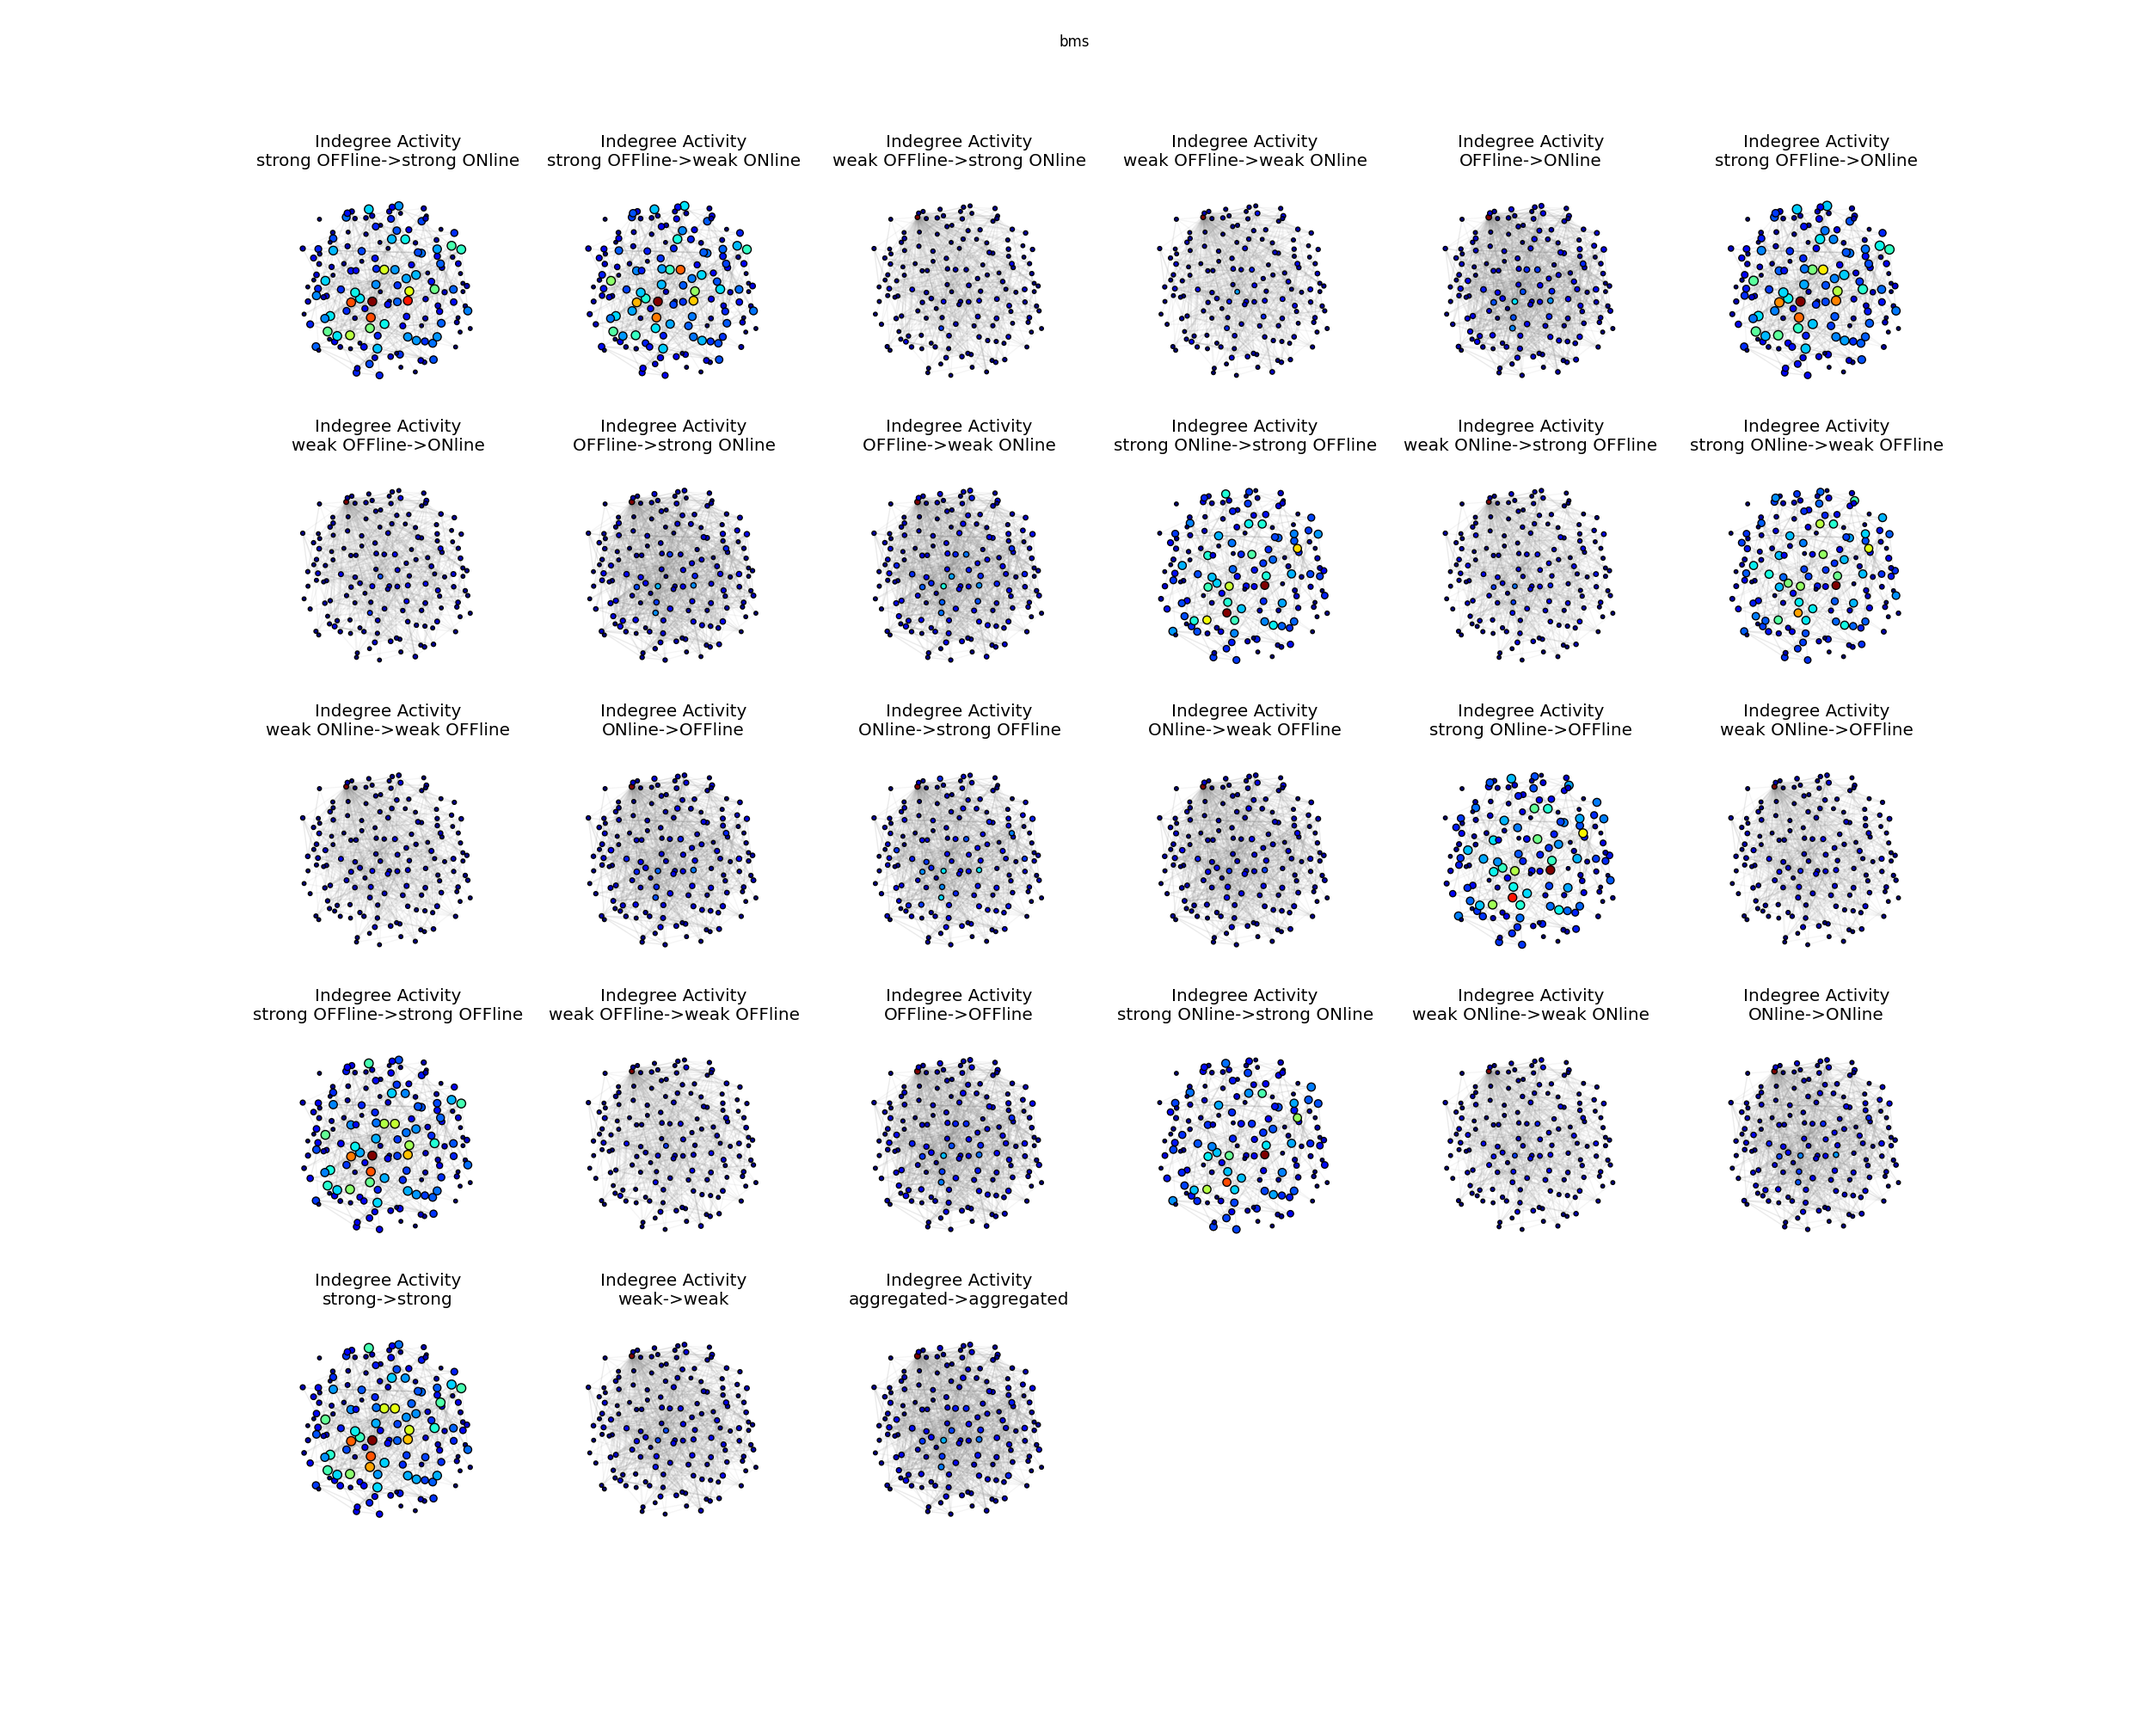
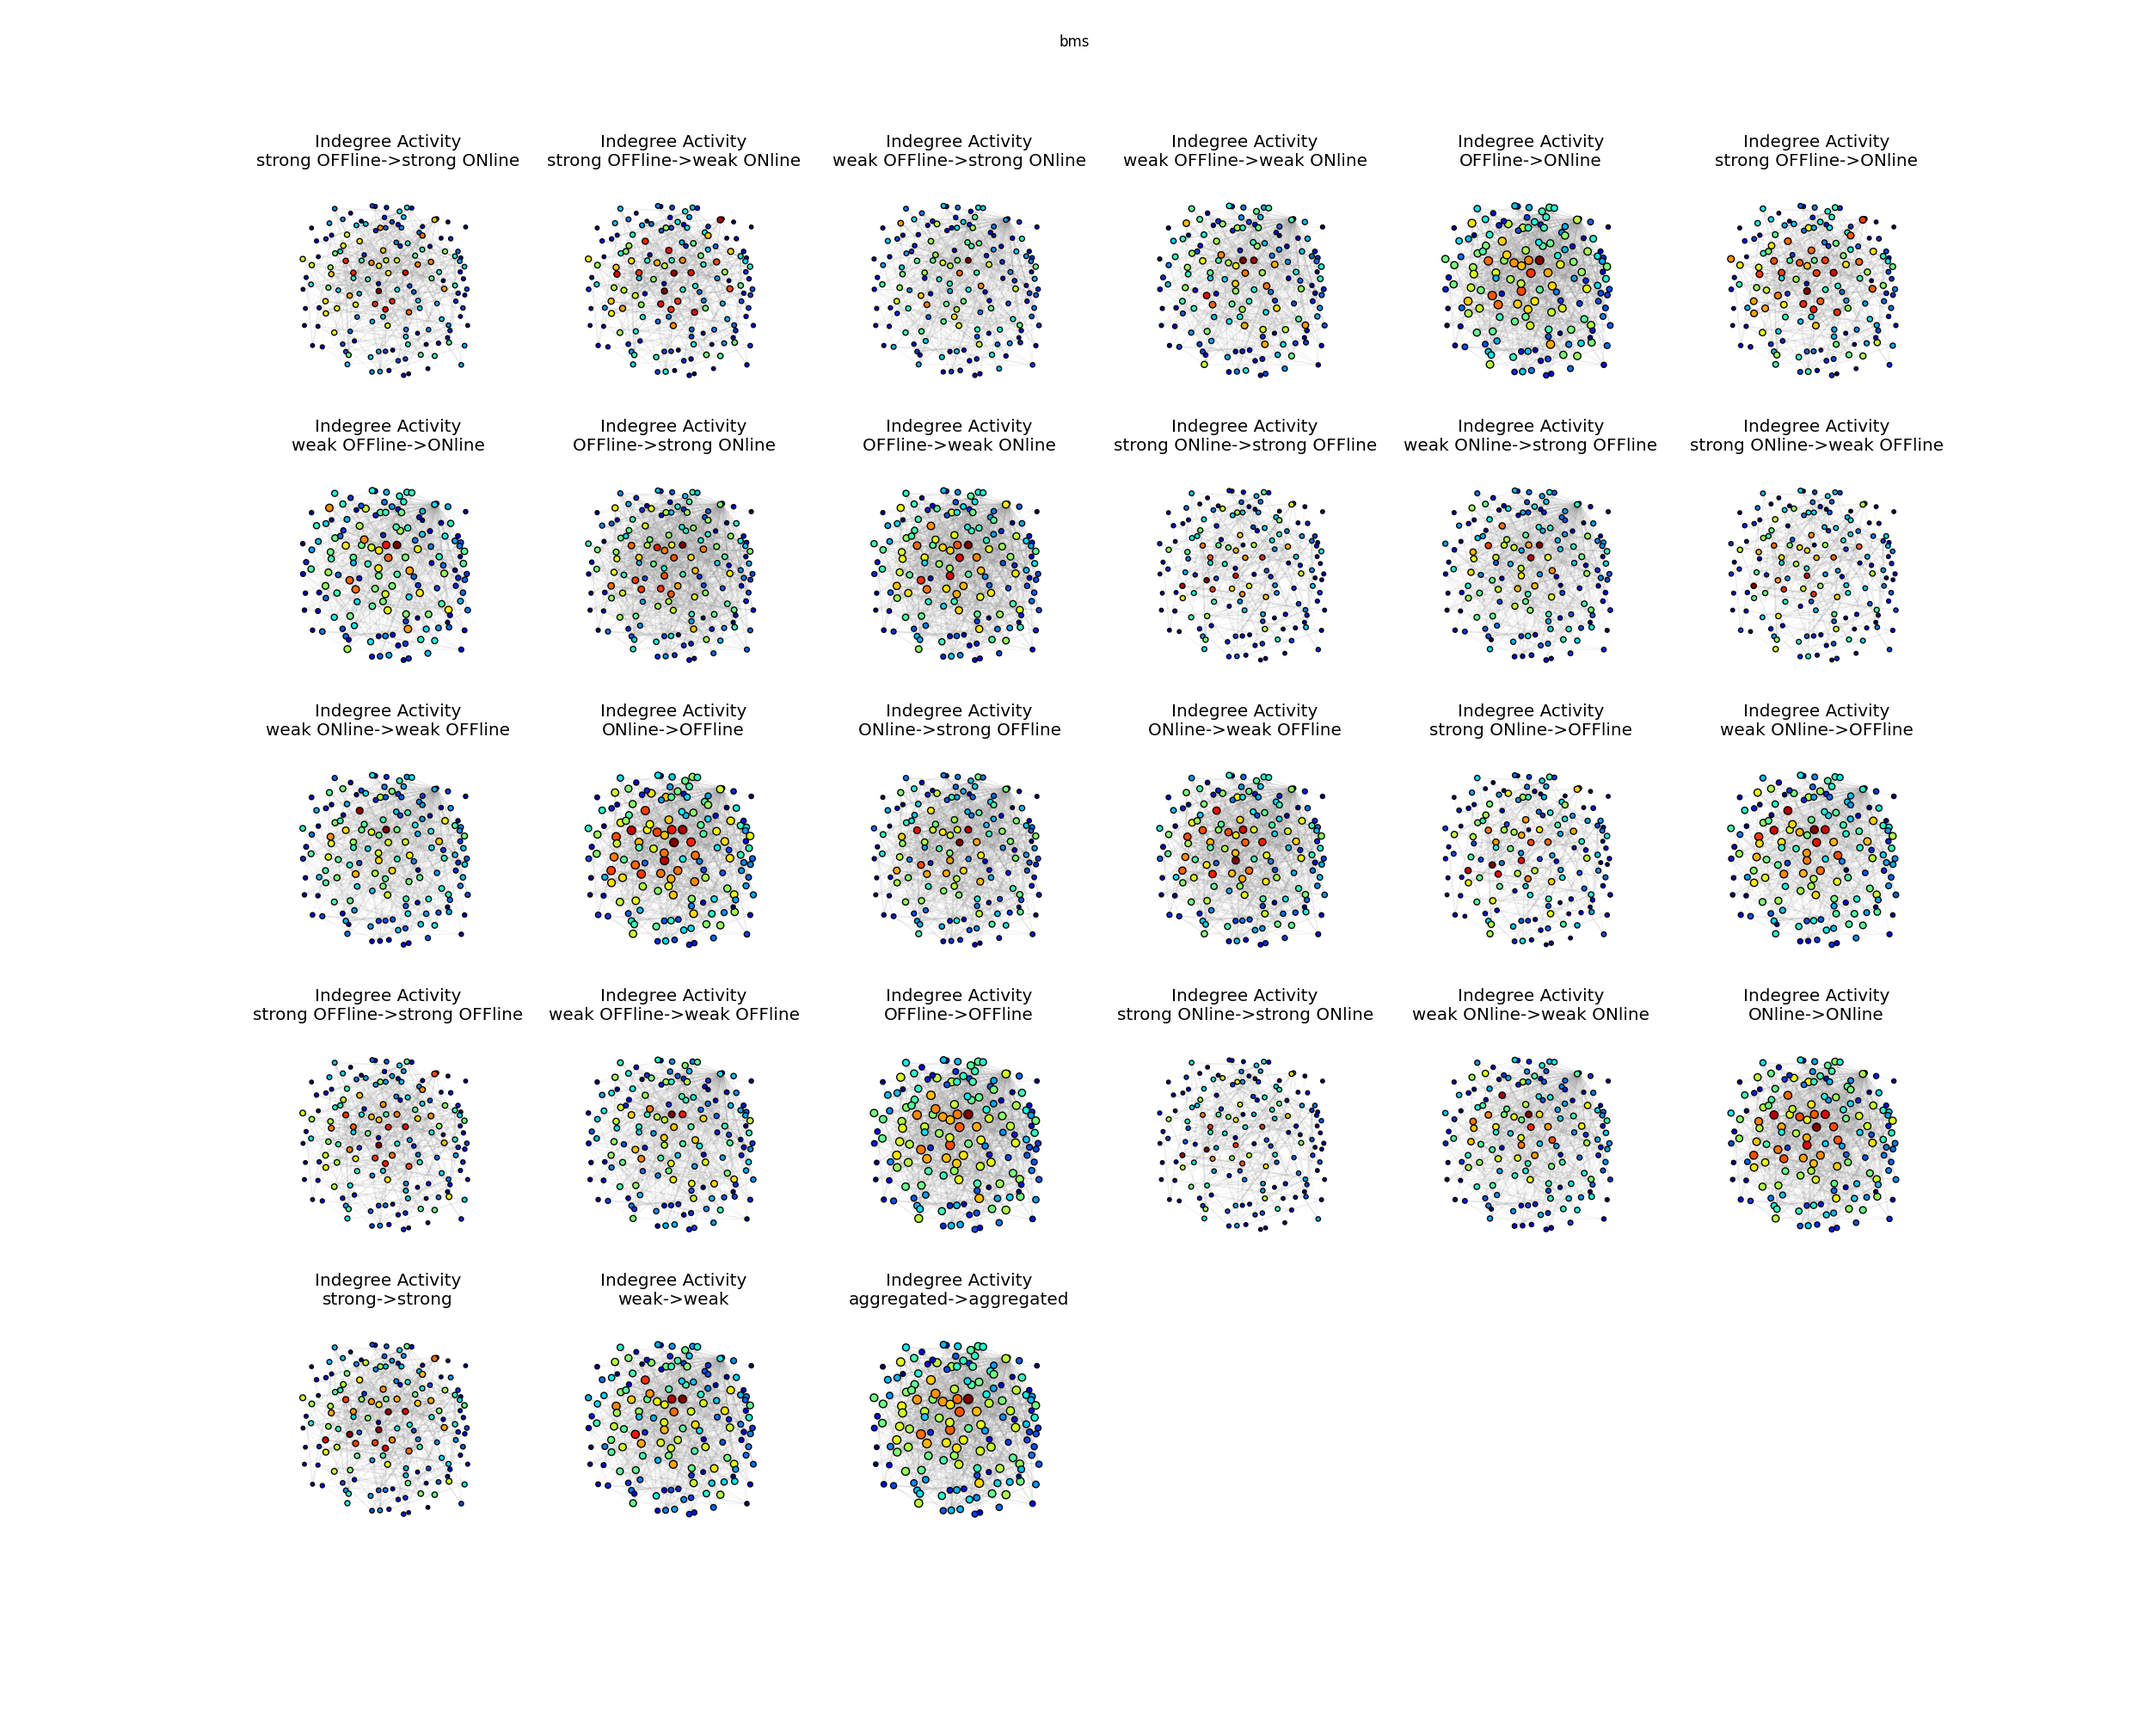
modified popularity and activity metrics

diff --git a/python code/compute_metrics_multiplex.py b/python code/compute_metrics_multiplex.py
@@ -21,6 +21,8 @@ def maxOut(g):
 def maxIn(g):
     return max([inDeg(g,i) for i in range(g.number_of_nodes())])
   
+  
+  
 """
 return {j: i f j} where f is in_edges or out_edges functions for a graph
 
@@ -108,23 +110,36 @@ returns (i->j g1) * (j->h g1) * (h->i g2)
 def threeCycles(g1,g2,i):
     return JS(Wi(i,g1.out_edges,g1.out_edges),_n(i,g2.in_edges))
 
-def PopIn(g1,g2,i):
+def PopInOld(g1,g2,i):
     res = 0.0
     for j in _n(i,g1.out_edges):
         res += math.sqrt(len(_n(j,g2.in_edges)))
     return res/maxOut(g1)/math.sqrt(maxIn(g2))
-
-def PopOut(g1,g2,i):
+    
+def PopIn(g1,g2,i):
+    return len(Wi(i,g1.out_edges,g2.in_edges))
+    
+def PopOutOld(g1,g2,i):
     res = 0.0
     for j in _n(i,g1.out_edges):
         res += math.sqrt(len(_n(j,g2.out_edges)))
     return res/maxOut(g1)/math.sqrt(maxOut(g2))   
     
-def ActIn(g1,g2,i):
+
+def PopOut(g1,g2,i):
+    return len(Wi(i,g1.out_edges,g2.out_edges))  
+    
+def ActInOld(g1,g2,i):
     return 1.0*len(_n(i,g1.out_edges))*math.sqrt(len(_n(i,g2.in_edges)))/maxOut(g1)/math.sqrt(maxIn(g2))
 
+def ActIn(g1,g2,i):
+    return len(Wi(i,g1.in_edges,g2.in_edges)) 
+    
+def ActOutOld(g1,g2,i):
+    return 1.0*len(_n(i,g1.out_edges))*math.sqrt(len(_n(i,g2.out_edges)))/maxOut(g1)/math.sqrt(maxOut(g2)) 
+    
 def ActOut(g1,g2,i):
-    return 1.0*len(_n(i,g1.out_edges))*math.sqrt(len(_n(i,g2.out_edges)))/maxOut(g1)/math.sqrt(maxOut(g2))  
+    return len(Wi(i,g1.in_edges,g2.out_edges))  
    
 """
 For each node in nodes calculates the multiplex metrics metric for graphs g1 and g2

diff --git a/python code/load_data.py b/python code/load_data.py
@@ -4,9 +4,9 @@ import networkx as nx
 import numpy as np
 
 def load_4_layers(dataset="wan",aggregated=False,only_include_nodes_who_participated=True):
-    path = "data\\wan.csv"
+    path = "..\\data\\wan.csv"
     if dataset == "bms":
-        path = "data\\bms.csv"
+        path = "..\\data\\bms.csv"
     node_mapping = {}
     count = 0
     graphs = [nx.DiGraph(),nx.DiGraph(),nx.DiGraph(),nx.DiGraph(),nx.DiGraph(),nx.DiGraph(),nx.DiGraph(),nx.DiGraph(),nx.DiGraph()]
